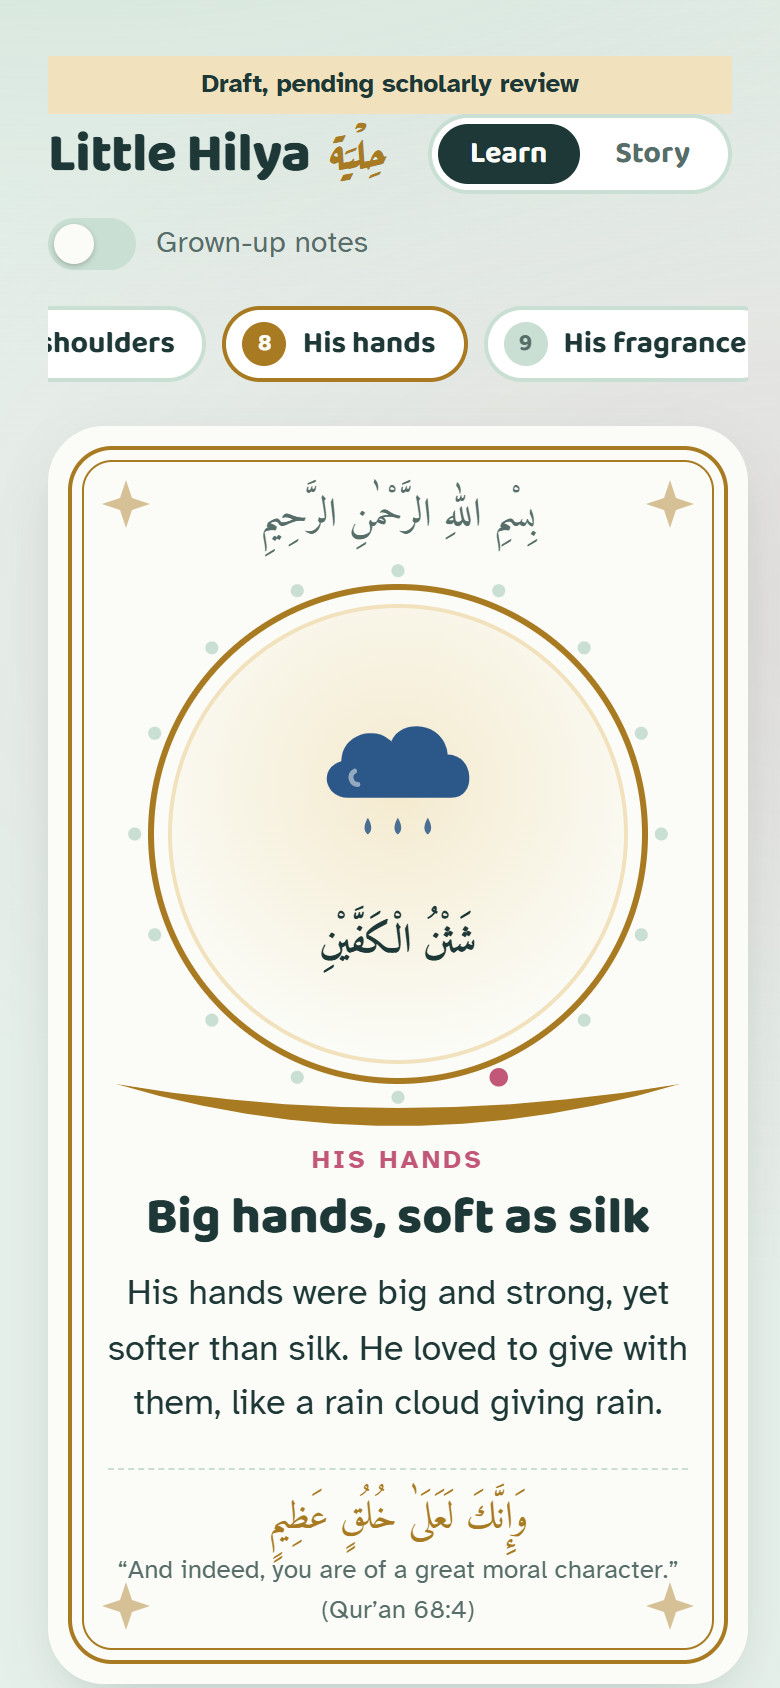
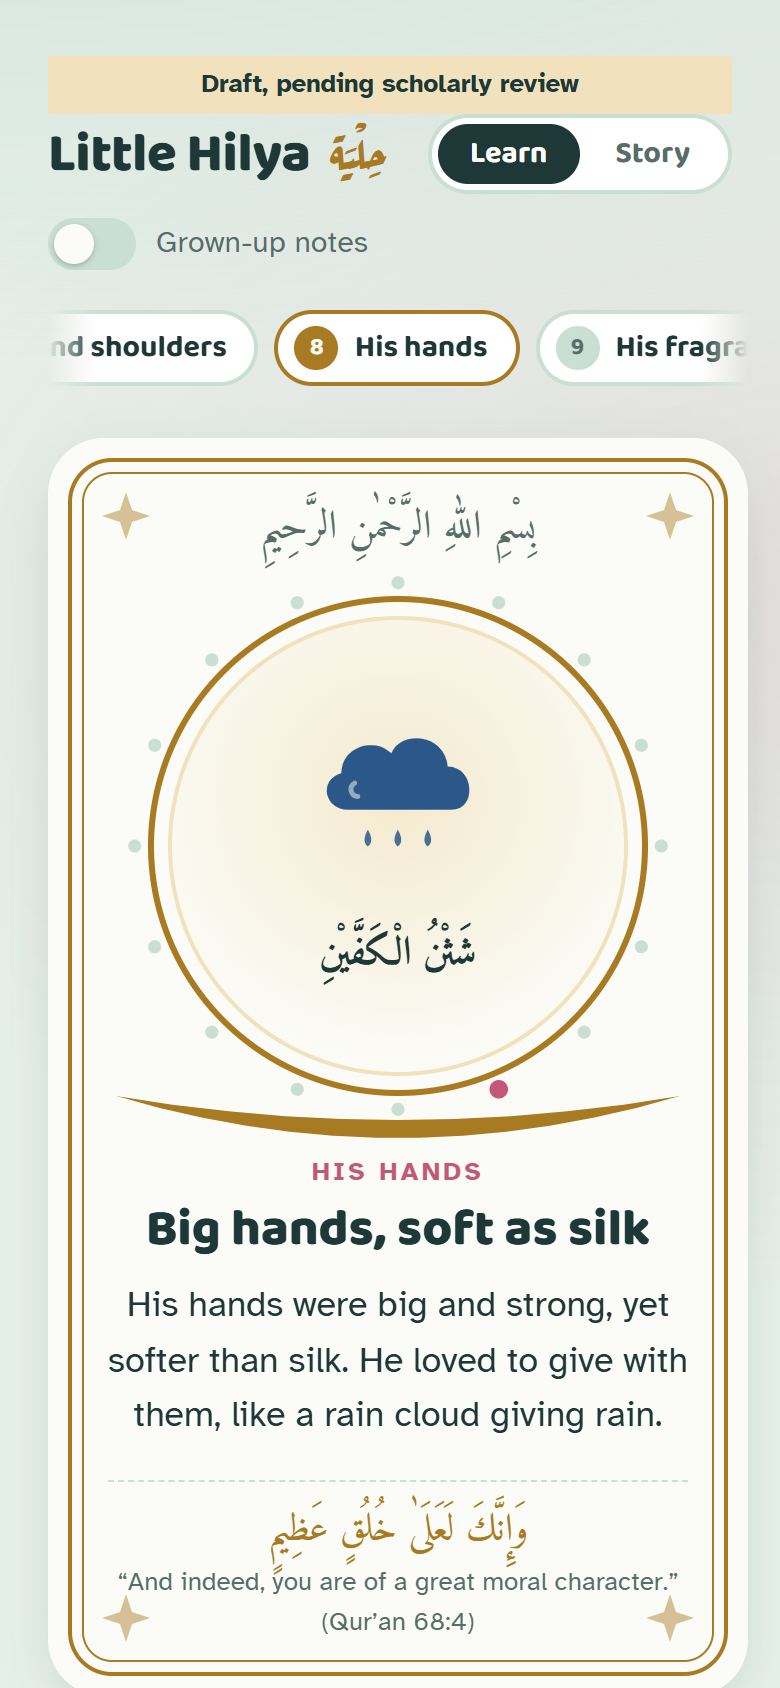
Style the station index scrollbar and fade its edges

Changed region(s): [[0.0615, 0.154, 0.9846, 1.0], [0.4, 0.4313, 0.6154, 0.4929], [0.4, 0.5237, 0.6154, 0.5853]]

diff --git a/src/styles/global.css b/src/styles/global.css
@@ -169,8 +169,17 @@ button {
   display: flex;
   gap: 8px;
   overflow-x: auto;
-  padding-bottom: 4px;
+  padding: 2px 24px 8px;
   scrollbar-width: thin;
+  scrollbar-color: color-mix(in srgb, var(--gold) 55%, transparent) transparent;
+  /* Fade both ends so a cut-off chip reads as "more this way"; padding keeps the first and last chips clear of it. */
+  mask-image: linear-gradient(
+    to right,
+    transparent,
+    #000 24px,
+    #000 calc(100% - 24px),
+    transparent
+  );
   scroll-snap-type: x proximity;
   scroll-padding-inline: 24px;
   overscroll-behavior-x: contain;
